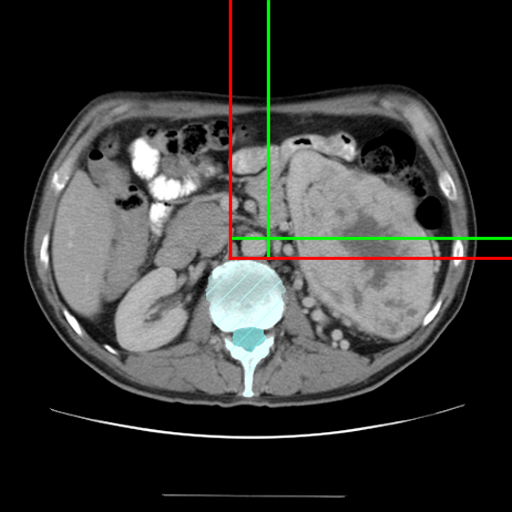
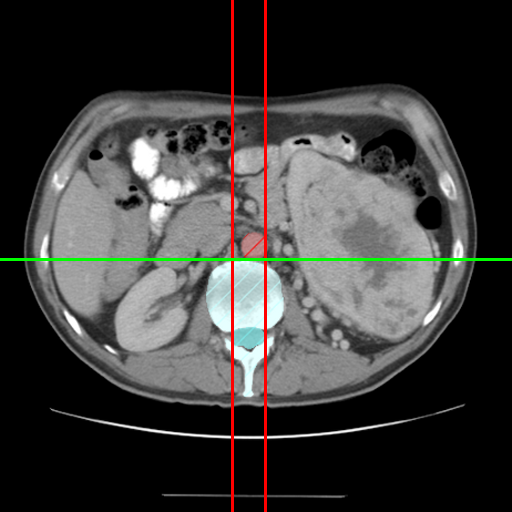
Finished sorting out the aorta identification section.
git-svn-id: svn://edison.comlab.ox.ac.uk/res07/stug/thesis@499 3591cd54-c1f5-49d0-bbe8-c111502d3865

Changed region(s): [[0.0, 0.0, 1.0, 1.0]]

diff --git a/featureid/featureid-final.tex b/featureid/featureid-final.tex
@@ -718,8 +718,10 @@ As illustrated in Figure~\ref{fig:featureid-3d-ribsidentification-results}, this
 %################################################
 
 %---
-\stufigex{height=9cm}{featureid/featureid-3d-aortaidentification-region-overlay.png}{TODO -- The spatial constraints for aorta seeds -- they (a) must lie at least partly in the small, green box just above the spine, (b) may lie partly in the boxes marked in yellow, and (c) must not lie below or to the left of the red lines}{fig:featureid-3d-aortaidentification-region}{h}
+\stufigex{height=7.5cm}{featureid/featureid-3d-aortaidentification-region.png}{The spatial constraints for aorta seeds -- the seed's left-hand side must lie between the red lines, and the top of the spine (represented by the green line) must lie between the top of the seed and $20$ voxels below the bottom of it}{fig:featureid-3d-aortaidentification-region}{h}
 %---
+
+\vspace{-5mm}
 
 \noindent As with ribs identification, branch node filtering on its own is generally insufficient when identifying the aorta. Instead, it is used to produce an initial selection of seeds, which are then refined by careful post-processing. Seeds to be added to the initial selection must:
 %
